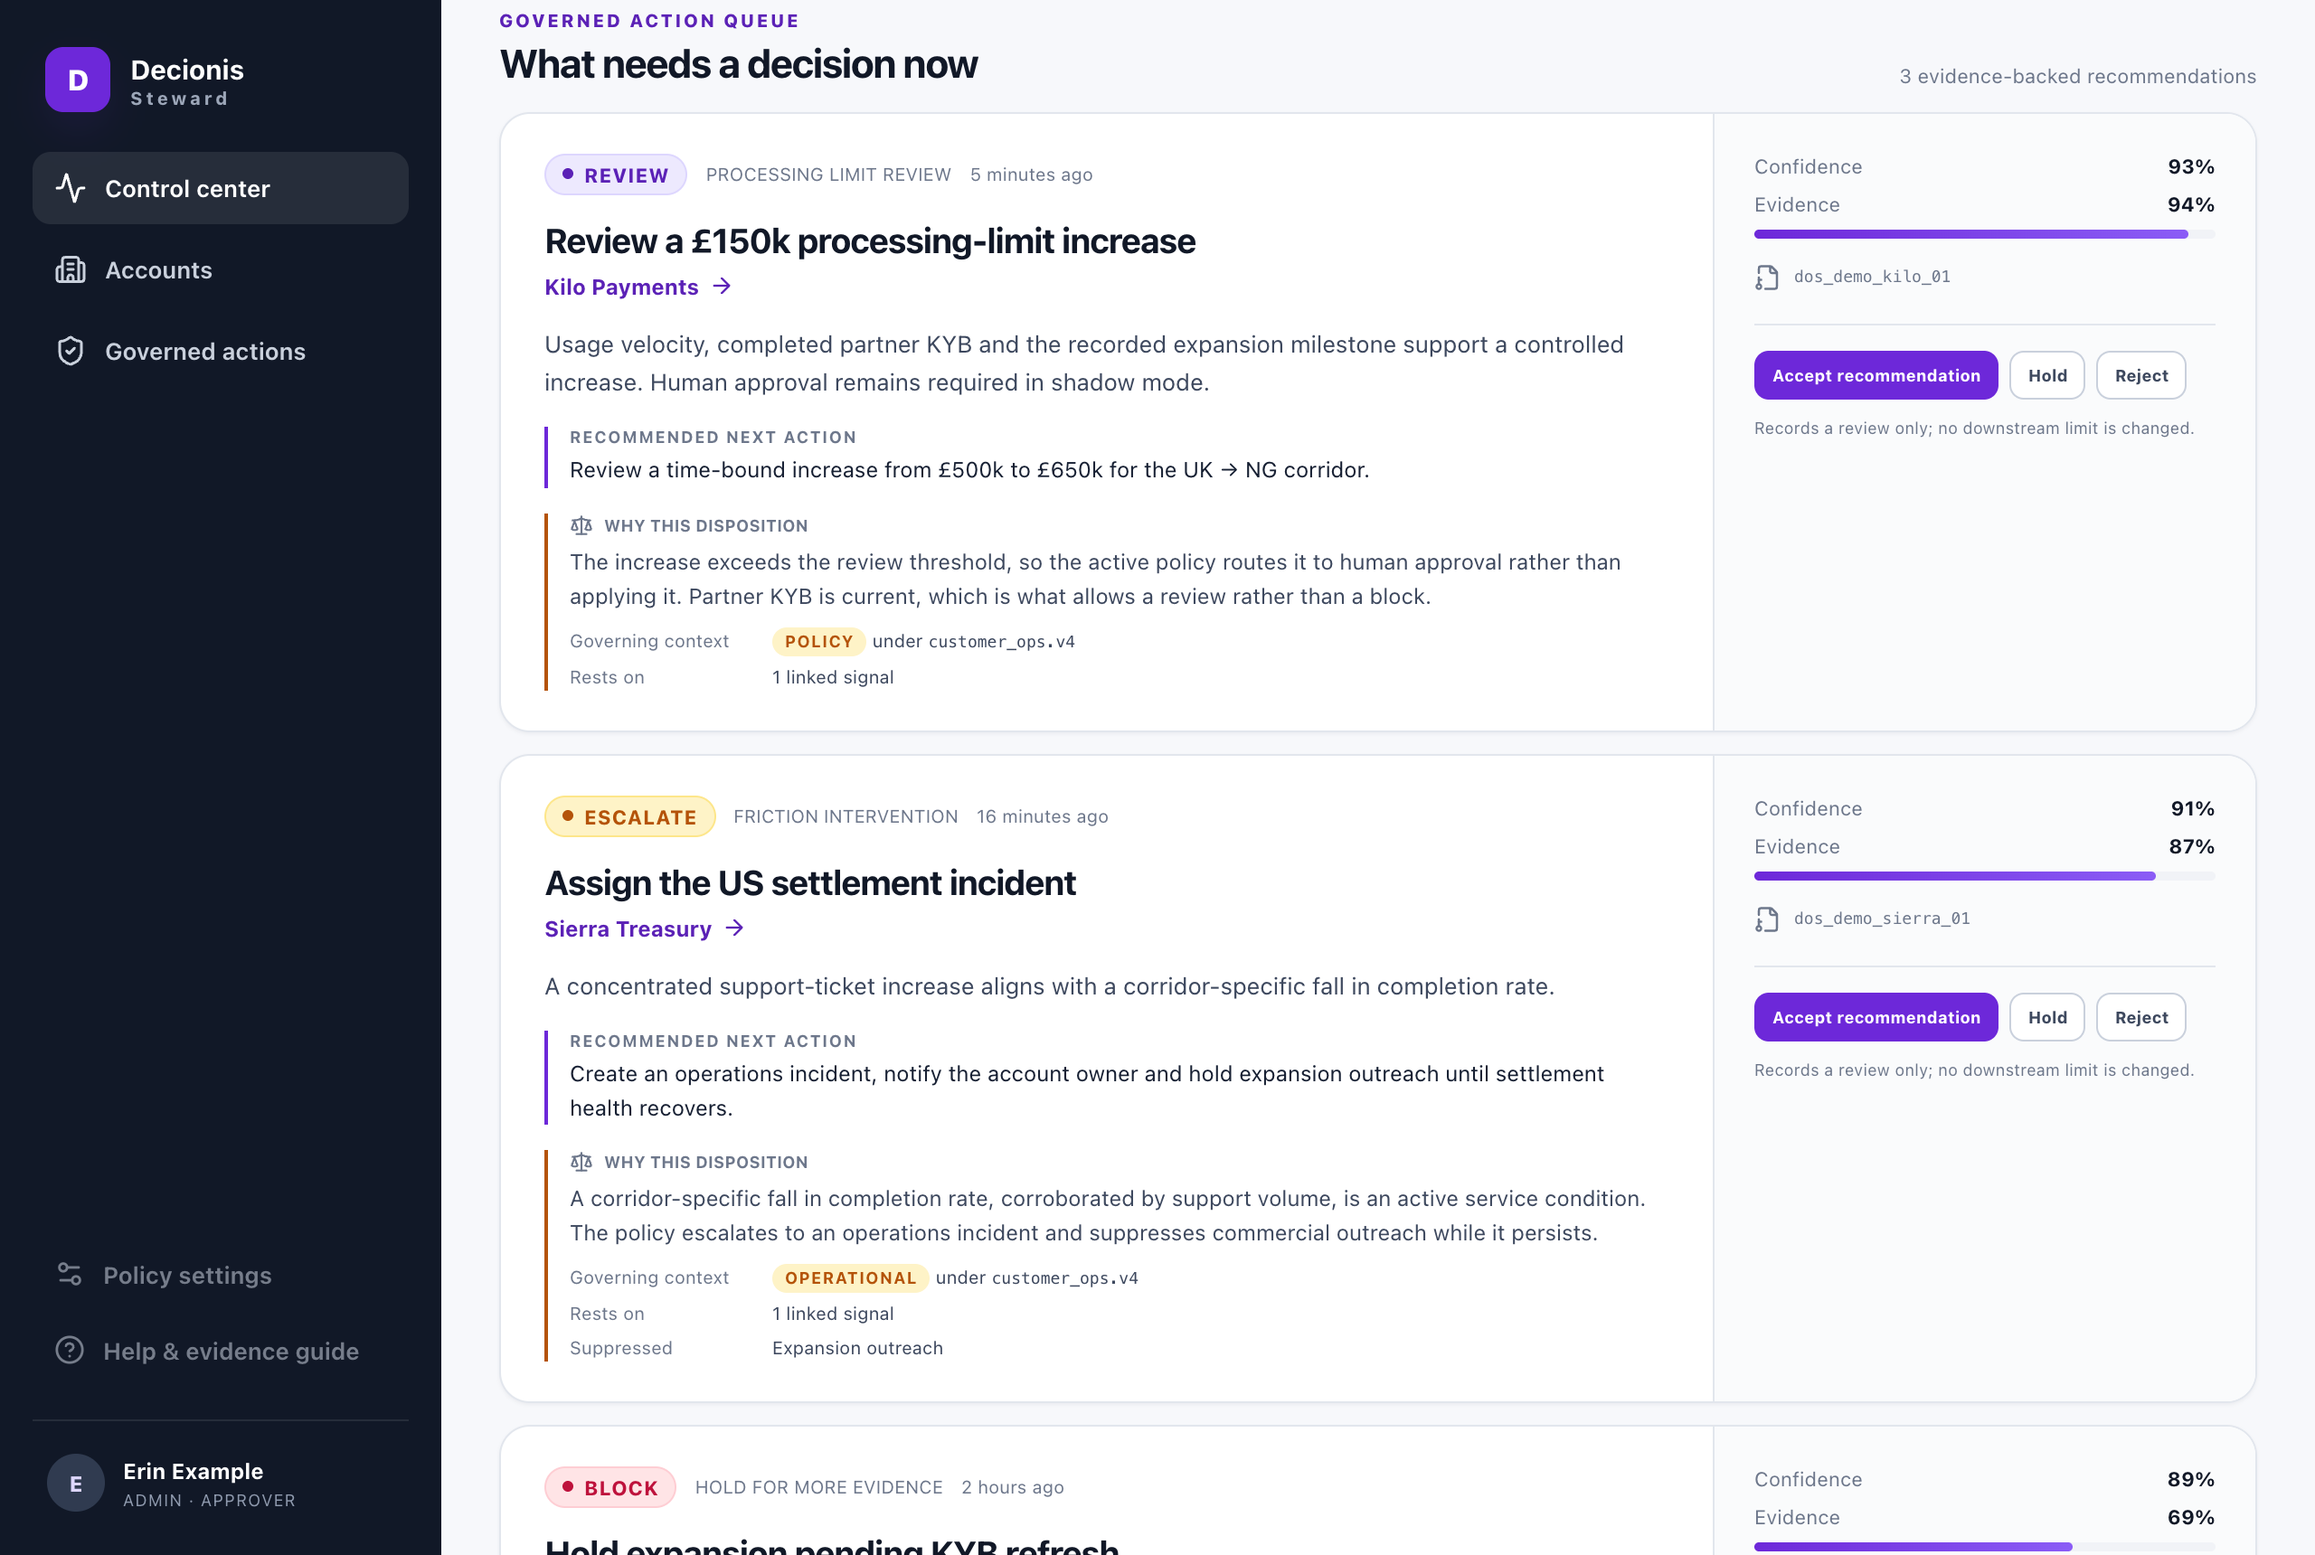
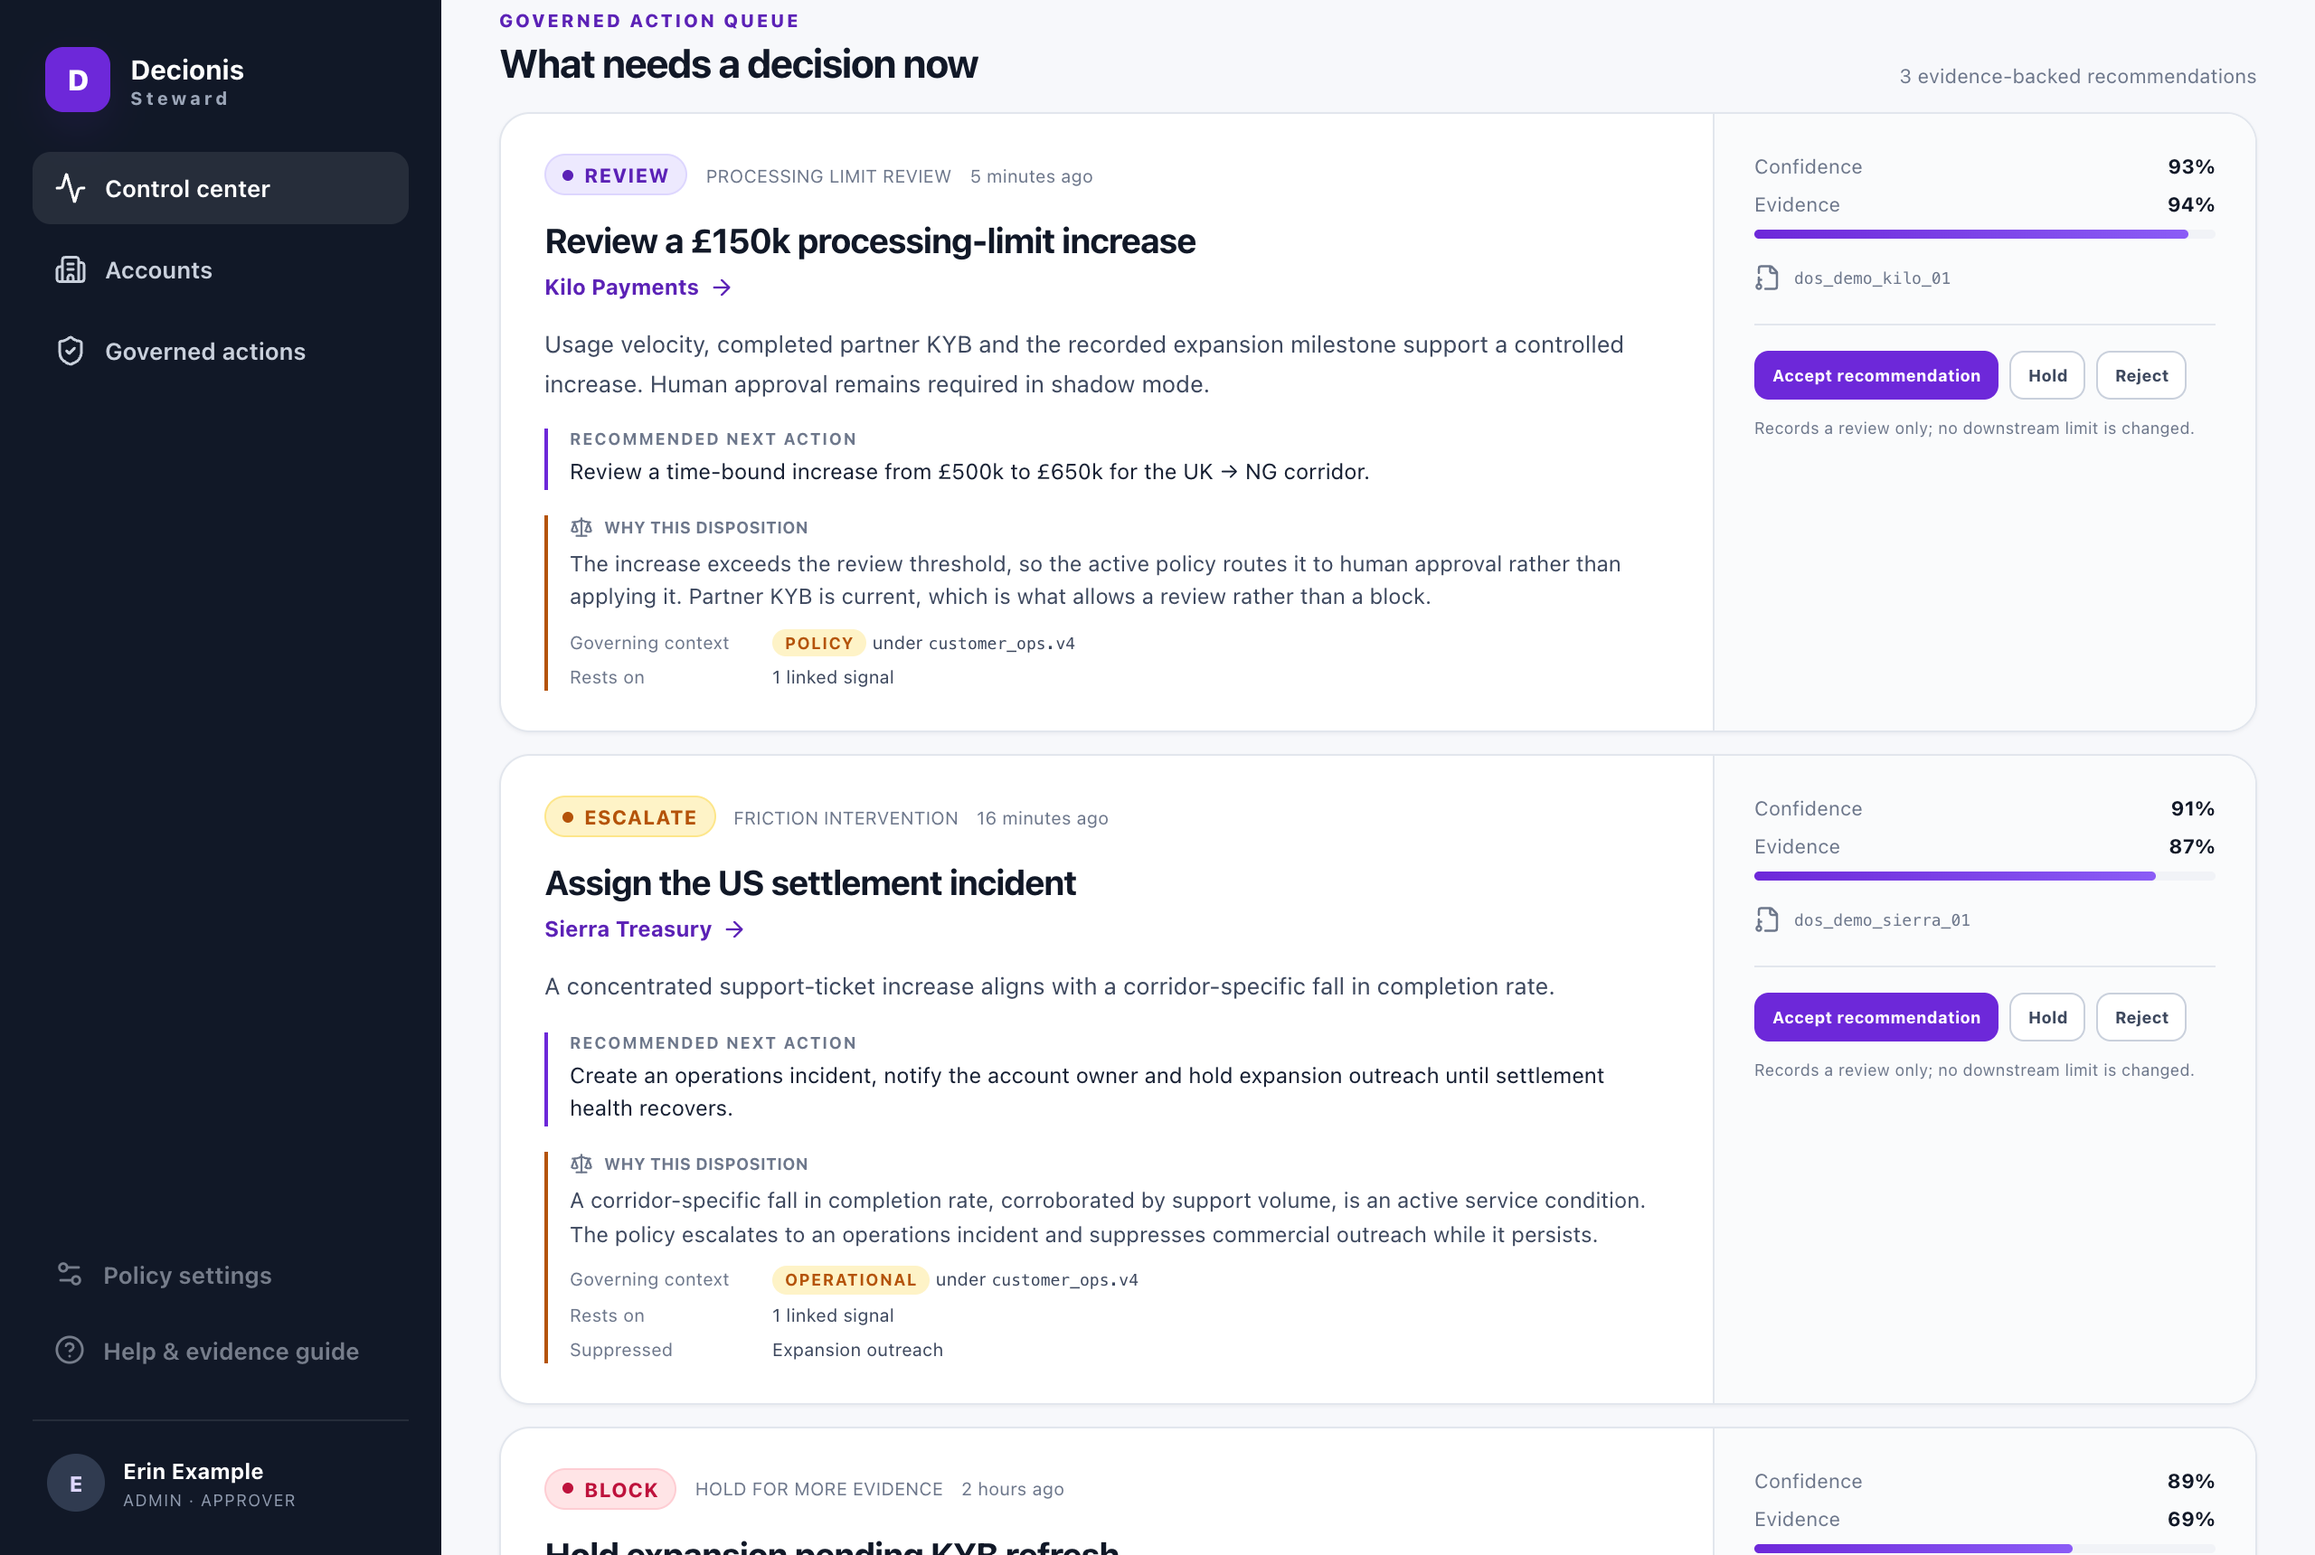
docs: Steward is the open-source customer support decisioning platform
The product statement, on every surface: see what is happening across
your accounts as it happens, triage one queue with the evidence behind
each recommendation, act before the customer asks. Decisions are
recorded and executed by Decionis, the authority behind Steward. The
seam in OpenCore.md does not move: "platform" names the product, and
who decides is said in the same breath.

diff --git a/app/layout.tsx b/app/layout.tsx
@@ -5,7 +5,7 @@ import "./globals.css";
 export const metadata: Metadata = {
   title: "Decionis Steward",
   description:
-    "The review console for customer operations: processing-limit reviews, expansion, friction and KYC/KYB escalations in one queue, the evidence behind each, and every decision recorded and executed by Decionis.",
+    "The open-source customer support decisioning platform: see what is happening across your accounts, triage one queue with the evidence behind each recommendation, act before the customer asks. Decisions are recorded and executed by Decionis.",
   robots: { index: false, follow: false },
 };
 

diff --git a/components/dashboard/DashboardHeader.tsx b/components/dashboard/DashboardHeader.tsx
@@ -17,9 +17,9 @@ export function DashboardHeader({
         </div>
         <h1>Control center</h1>
         <p>
-          Limit reviews, expansion, friction and KYC escalations in one queue,
-          with the evidence behind each. Reviews are recorded here and executed
-          by Decionis.
+          See what is happening across your accounts, triage the queue with the
+          evidence behind each recommendation, and act before the customer asks.
+          Reviews are recorded here and executed by Decionis.
         </p>
       </div>
       <div className={styles.evidenceNote}>

diff --git a/README.md b/README.md
@@ -9,17 +9,19 @@
 [![OpenSSF Scorecard](https://api.securityscorecards.dev/projects/github.com/decionis/steward/badge)](https://scorecard.dev/viewer/?uri=github.com/decionis/steward)
 [![License: Apache 2.0](https://img.shields.io/badge/License-Apache_2.0-blue.svg)](./LICENSE)
 
-**One queue for account decisions, the evidence behind each, and a record of every one.**
+**The open-source customer support decisioning platform: see what is happening, triage one queue, act before the customer asks.**
 
 **[Try the live demo →](https://decionis-steward.vercel.app)** — the whole operator workflow on
 deterministic fixtures. No account, no credentials, nothing to install.
 
-Steward is the review console for customer operations, risk and revenue teams. Processing-limit
-reviews, expansion outreach, friction interventions and KYC/KYB escalations arrive in one queue,
-each with the evidence behind it: the usage, support, settlement, CRM and KYC signals, the source
-and record of each, when it was observed, and whether the connected source is healthy. An approver
-accepts, holds or rejects. The review is recorded and forwarded to the Decionis platform, which
-executes the change and files the Decision Dossier. Nothing changes until it does.
+Steward is the open-source (Apache-2.0) customer support decisioning platform. Customer
+operations, risk and revenue teams see what is happening across their accounts as it happens: the
+usage, support, settlement, CRM and KYC signals, each with its source, its record, when it was
+observed and whether the source is healthy, weighed at the moment a decision is made rather than
+read from a stale profile. They triage one queue of processing-limit reviews, expansion outreach,
+friction interventions and KYC/KYB escalations, and act before the customer asks. An approver
+accepts, holds or rejects; the review is recorded and forwarded to Decionis, the authority behind
+Steward, which executes the change and files the Decision Dossier. Nothing changes until it does.
 
 The problem it solves: in regulated fintech, the people closest to the customer can see that an
 account is ready for a higher processing limit or is about to churn, but they cannot act on it

diff --git a/CHANGELOG.md b/CHANGELOG.md
@@ -12,9 +12,11 @@ you integrate against these types.
 
 ### Changed
 
-- The product description, on every surface, now says what the team running it gets: one queue for
-  processing-limit reviews, expansion, friction and KYC/KYB escalations, the evidence behind each
-  recommendation, and every decision recorded and executed by Decionis. The README tagline and
+- Steward is described as the open-source customer support decisioning platform, on every surface:
+  see what is happening across your accounts as it happens, triage one queue of processing-limit
+  reviews, expansion, friction and KYC/KYB escalations with the evidence behind each, act before the
+  customer asks, and have every decision recorded and executed by Decionis, the authority behind
+  it. The README tagline and
   opening, the repository description, the HTML metadata, the dashboard header, the discovery
   summary, the Docker guide, the Docker Hub overview and short description, and the image's OCI
   description use the same words, in place of "signal capture and decisioning".

diff --git a/packaging/dockerhub/README.md b/packaging/dockerhub/README.md
@@ -1,9 +1,10 @@
 # Decionis Steward
 
-**One queue for account decisions, the evidence behind each, and a record of every one. Decionis
-executes.**
+**The open-source customer support decisioning platform: see what is happening, triage one queue,
+act before the customer asks.**
 
-`decionis/steward` is the review console for customer operations, risk and revenue teams.
+`decionis/steward` is where customer operations, risk and revenue teams see what is happening
+across their accounts as it happens and act on it before the customer asks.
 Processing-limit reviews, expansion outreach, friction interventions and KYC/KYB escalations
 arrive in one queue, each with the evidence behind it: the usage, support, settlement, CRM and
 KYC signals, the source and record of each, when it was observed, and whether the connected

diff --git a/docs/Docker.md b/docs/Docker.md
@@ -1,7 +1,8 @@
 # Run Steward in Docker
 
-> One queue for account decisions, the evidence behind each, and a record of every one. Decionis
-> executes.
+> The open-source customer support decisioning platform: see what is happening across your
+> accounts, triage one queue with the evidence behind each recommendation, act before the customer
+> asks. Decisions are recorded and executed by Decionis.
 
 ## What your operators get
 
